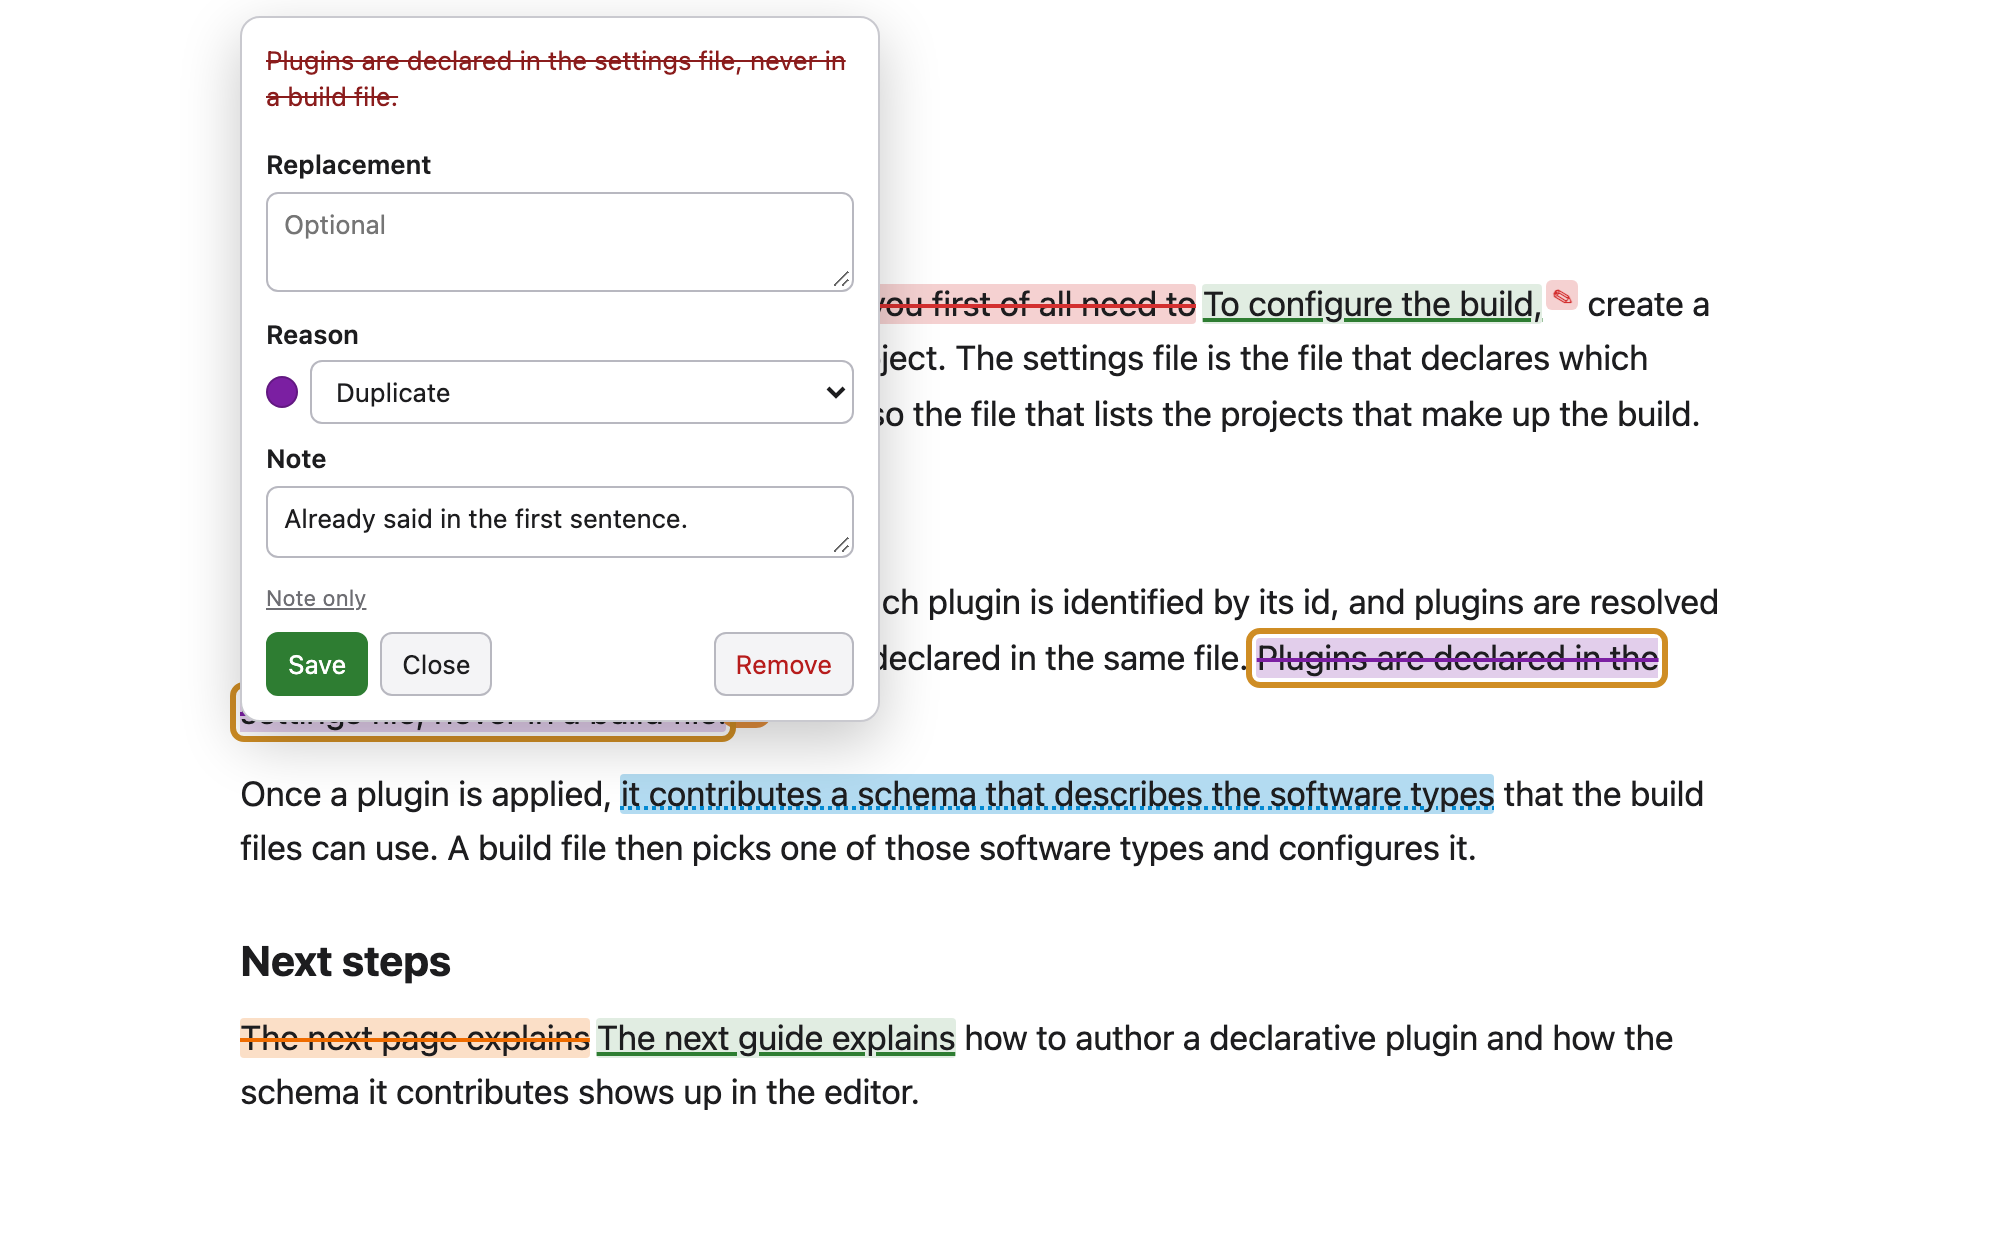
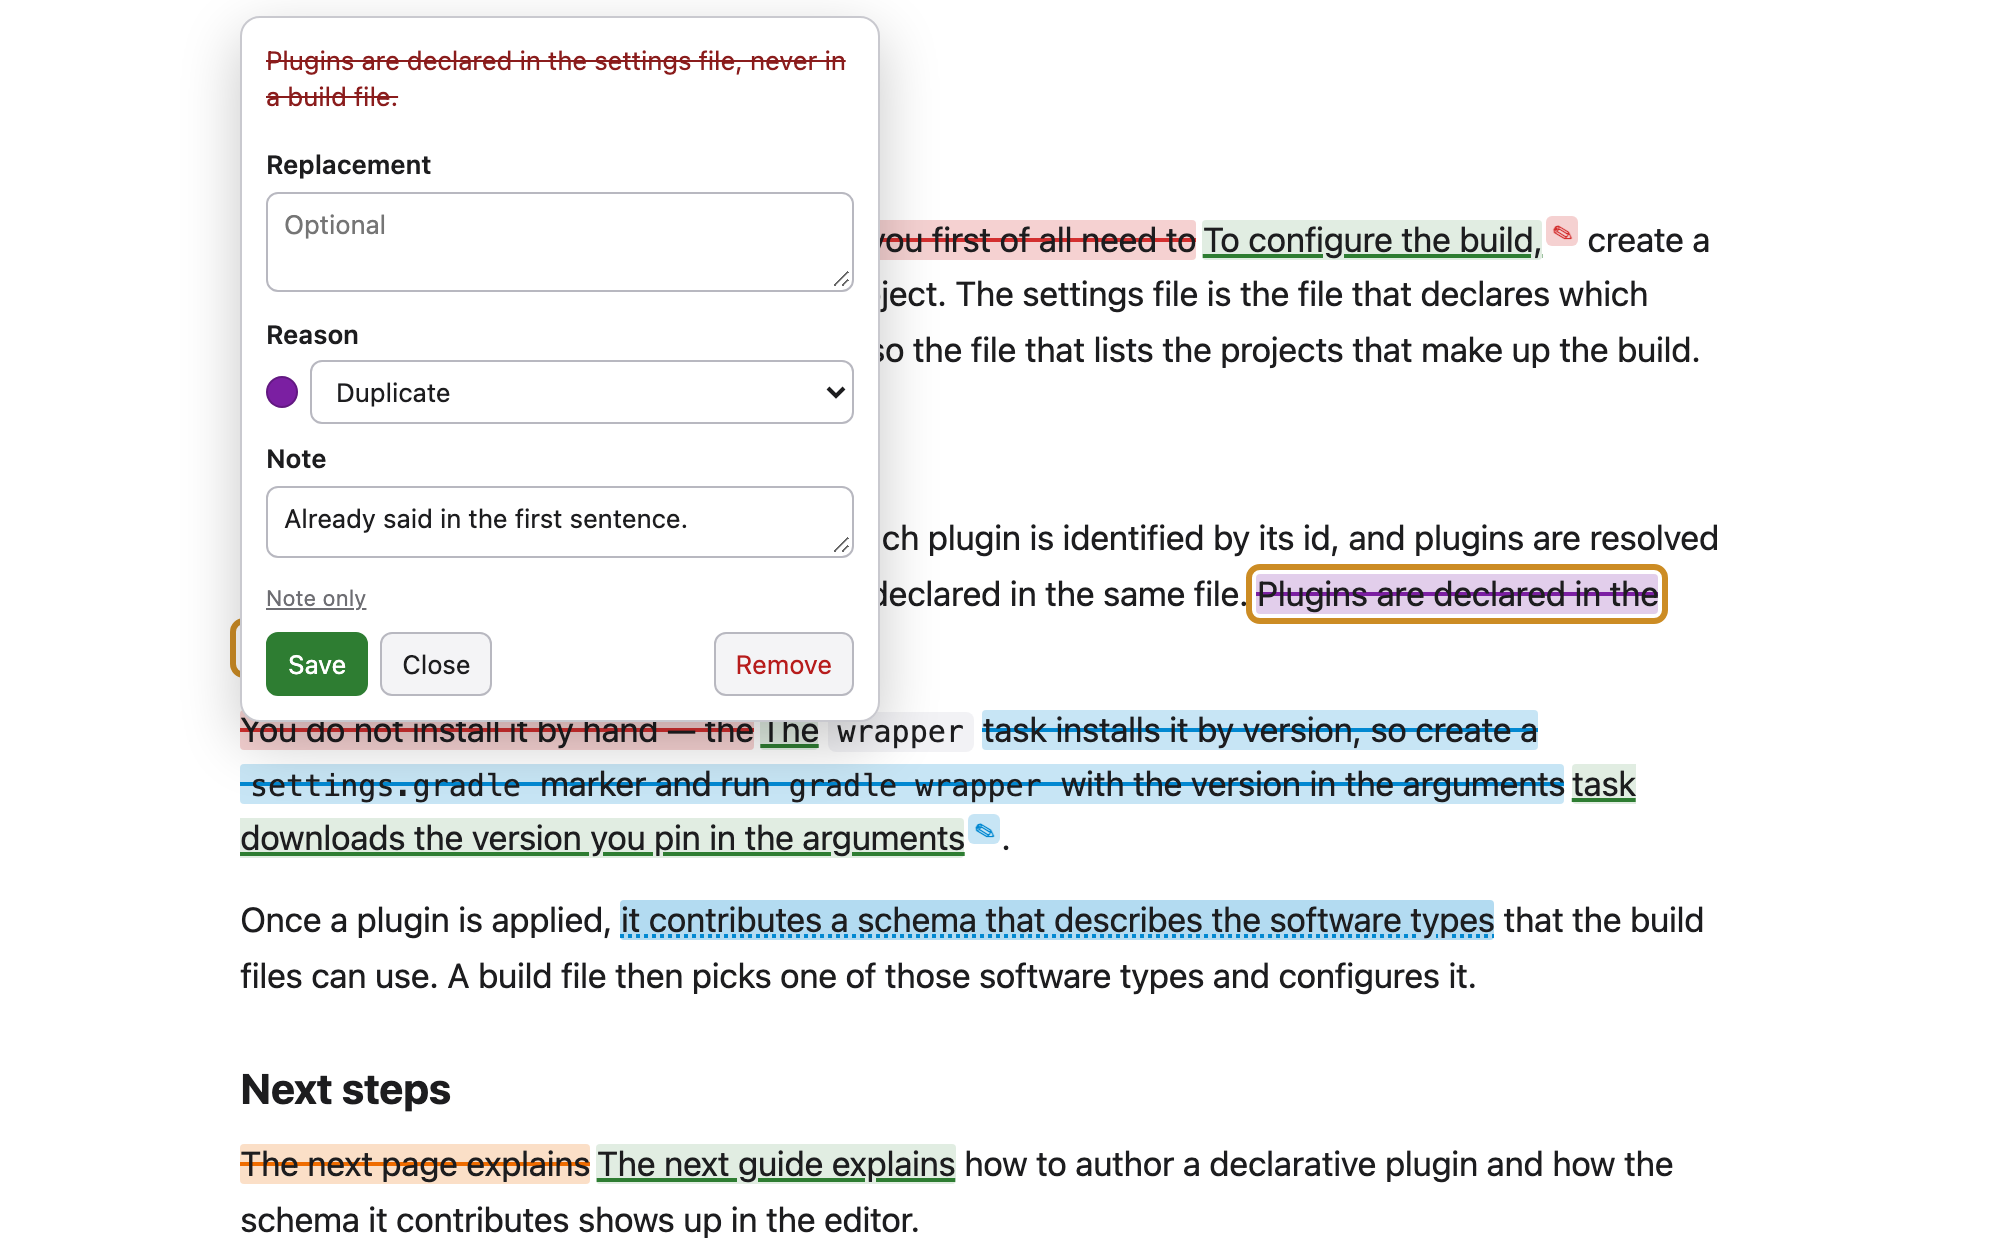
Wrap marks as whole runs; continuous strikethrough; tint-based hover
applyMark now wraps, per block, one span around each run of fully
covered sibling nodes (text and whole inline elements such as code or
emphasis), splitting only the partially covered text at the ends, so a
mark across inline markup is one box instead of one per text run; a
selection across paragraphs yields one span per paragraph. Nested
elements inside a mark paint no background of their own. The
strikethrough is a background layer rather than text-decoration, so it
stays continuous across nested padding and font-size changes. Hover
deepens the tint instead of drawing outlines, which doubled up where
pieces met.

Changed region(s): [[0.093, 0.429, 0.868, 0.8887], [0.434, 0.1532, 0.868, 0.3677], [0.093, 0.9194, 0.837, 1.0]]

diff --git a/test/smoke.html b/test/smoke.html
@@ -27,6 +27,8 @@
   <h2>Heading one</h2>
   <p id="p1">The quick <b>brown fox</b> jumps over the lazy dog. The quick brown fox again.</p>
   <p id="p2">Second paragraph with <a href="#x">a link inside</a> and more words after it.</p>
+  <p id="p3">Run the <code>wrapper</code> task, then edit <code>settings.gradle</code> and <em>commit</em> both files.</p>
+  <p id="p4">A fourth paragraph that a selection can reach into.</p>
   <section id="boiler">
     <p class="dup">This boilerplate paragraph is repeated verbatim further down the page so that the phrase marked here has identical surroundings for well over thirty-two characters on each side of the target phrase, which defeats a short context window.</p>
     <p>Something unique sits between the two copies.</p>
@@ -54,7 +56,7 @@
   sel(p1.firstChild, 4, p1.childNodes[2], 6); // "quick " + "brown fox" + " jumps"
   let r = await __send({ type: 'pr:mark-selection' });
   ok('mark spanning <b> ok', r.ok && r.edit.exact === 'quick brown fox jumps');
-  ok('three del spans', document.querySelectorAll('.page-redline-del').length === 3);
+  ok('one span wraps text + <b> + text', document.querySelectorAll('.page-redline-del').length === 1 && document.querySelector('.page-redline-del').querySelector('b'));
   ok('page text unchanged by marking', text() === before);
 
   const pageKey = location.origin + location.pathname + location.search;
@@ -237,11 +239,31 @@
   const pieces = [...document.querySelectorAll(`[data-pr-id="${hoverId}"]`)];
   const over = (el) => el.dispatchEvent(new MouseEvent('mouseover', { bubbles: true }));
   over(pieces[1]);
-  ok('hover on one span lights up all spans, replacement and badge', pieces.length === 5 && pieces.every(el => el.classList.contains('page-redline-hover')));
+  ok('hover on the span lights up span, replacement and badge', pieces.length === 3 && pieces.every(el => el.classList.contains('page-redline-hover')));
   over(document.getElementById('out'));
   ok('hover clears when leaving the mark', !document.querySelector('.page-redline-hover'));
 
-  // 16. clearing the page removes its storage keys entirely
+  // 16. merged wrapping: inline code/em inside the selection is wrapped whole, blocks split it
+  const p3 = document.getElementById('p3'), p4 = document.getElementById('p4');
+  sel(p3.firstChild, 4, p3.lastChild, 6); // "the <code>wrapper</code> task, then edit <code>settings.gradle</code> and <em>commit</em> both"
+  r = await __send({ type: 'pr:mark-selection' });
+  let spans = document.querySelectorAll(`.page-redline-del[data-pr-id="${r.edit.id}"]`);
+  ok('inline code and em wrapped whole in one span', spans.length === 1 && spans[0].querySelectorAll('code').length === 2 && spans[0].querySelector('em') && spans[0].textContent === 'the wrapper task, then edit settings.gradle and commit both');
+  ok('page text unchanged by merged wrapping', p3.textContent === 'Run the wrapper task, then edit settings.gradle and commit both files.');
+  await __send({ type: 'pr:remove', id: r.edit.id });
+  ok('merged span unwraps cleanly', p3.querySelectorAll('code').length === 2 && !document.querySelector(`[data-pr-id="${r.edit.id}"]`) && p3.textContent === 'Run the wrapper task, then edit settings.gradle and commit both files.');
+  // across two paragraphs: one span per block
+  sel(p3.lastChild, p3.lastChild.data.length - 6, p4.firstChild, 8); // "files." + "A fourth"
+  r = await __send({ type: 'pr:mark-selection' });
+  spans = document.querySelectorAll(`.page-redline-del[data-pr-id="${r.edit.id}"]`);
+  ok('selection across paragraphs gives one span per paragraph', spans.length === 2 && spans[0].closest('p') === p3 && spans[1].closest('p') === p4 && !spans[0].querySelector('p'));
+  ok('cross-paragraph mark re-anchors after reload', (await reloadScript(), document.querySelectorAll(`.page-redline-del[data-pr-id="${r.edit.id}"]`).length === 2));
+  // a new mark may not swallow an existing one
+  sel(p3.firstChild, 0, p4.lastChild, p4.lastChild.data.length); // whole p3 + p4, which contain a mark
+  r = await __send({ type: 'pr:mark-selection' });
+  ok('a selection containing an existing mark is refused', !!r.error);
+
+  // 17. clearing the page removes its storage keys entirely
   await __send({ type: 'pr:clear' });
   ok('clear removes page and meta keys', !('page:' + pageKey in __store) && !('meta:' + pageKey in __store));
 

diff --git a/content.js b/content.js
@@ -164,6 +164,20 @@
     return parts.join(' — ');
   }
 
+  // Inline elements may be wrapped whole; anything else is a block boundary we descend into.
+  function isInlineElement(el) {
+    if (SKIP_TAGS.has(el.nodeName.toUpperCase()) || isOwnUi(el)) return false;
+    const d = getComputedStyle(el).display;
+    return d.startsWith('inline') || d === 'contents';
+  }
+  function hasVisibleText(node) {
+    return node.nodeType === Node.TEXT_NODE ? node.data.trim().length > 0 : node.textContent.trim().length > 0;
+  }
+
+  // Wraps the range in as few spans as possible: within each block, one span per run of
+  // fully covered sibling nodes (text and whole inline elements such as <code> or <b>),
+  // splitting only the partially covered text nodes at the two ends. Returns false and
+  // changes nothing if the range is empty or touches an existing mark.
   function applyMark(range, edit) {
     let sc = range.startContainer, so = range.startOffset, ec = range.endContainer, eo = range.endOffset;
     if (ec.nodeType === Node.TEXT_NODE && eo < ec.data.length) ec.splitText(eo);
@@ -175,31 +189,46 @@
     const r = document.createRange();
     r.setStart(sc, so);
     r.setEnd(ec, eo);
-    const root = r.commonAncestorContainer.nodeType === Node.TEXT_NODE ? r.commonAncestorContainer.parentNode : r.commonAncestorContainer;
-    const nodes = [];
-    const walker = document.createTreeWalker(root, NodeFilter.SHOW_ELEMENT | NodeFilter.SHOW_TEXT, {
-      acceptNode(n) {
-        if (n.nodeType === Node.ELEMENT_NODE) {
-          if (SKIP_TAGS.has(n.nodeName.toUpperCase()) || isOwnUi(n)) return NodeFilter.FILTER_REJECT;
-          return NodeFilter.FILTER_SKIP;
+
+    // Collect the runs first, then check for overlap, then wrap: no half-applied marks.
+    const runs = [];
+    const markSelector = `.${DEL}, .${NOTE}, .${INS}, .${BADGE}`;
+    let touchesMark = false;
+    function collect(parent) {
+      let run = [];
+      const flush = () => { if (run.some(hasVisibleText)) runs.push(run); run = []; };
+      for (const child of [...parent.childNodes]) {
+        if (!r.intersectsNode(child)) { flush(); continue; }
+        if (child.nodeType === Node.ELEMENT_NODE && child.matches(markSelector)) { touchesMark = true; return; }
+        const fullyCovered = r.comparePoint(child, 0) >= 0 && (child.nodeType === Node.TEXT_NODE
+          ? r.comparePoint(child, child.data.length) <= 0
+          : r.comparePoint(child.parentNode, [...child.parentNode.childNodes].indexOf(child) + 1) <= 0);
+        if (child.nodeType === Node.TEXT_NODE) {
+          if (fullyCovered && !SKIP_TAGS.has(parent.nodeName.toUpperCase())) run.push(child); else flush();
+        } else if (fullyCovered && isInlineElement(child)) {
+          if (child.querySelector(markSelector)) { touchesMark = true; return; }
+          run.push(child);
+        } else {
+          flush();
+          if (!SKIP_TAGS.has(child.nodeName.toUpperCase()) && !isOwnUi(child)) collect(child);
+          if (touchesMark) return;
         }
-        return r.intersectsNode(n) && n.data.trim().length ? NodeFilter.FILTER_ACCEPT : NodeFilter.FILTER_SKIP;
-      },
-    });
-    let n;
-    while ((n = walker.nextNode())) nodes.push(n);
-    if (!nodes.length) return false;
-    if (nodes.some((t) => t.parentElement && t.parentElement.closest(`.${DEL}`))) return false; // overlap
-    let last = null;
-    for (const t of nodes) {
+      }
+      flush();
+    }
+    const root = r.commonAncestorContainer.nodeType === Node.TEXT_NODE ? r.commonAncestorContainer.parentNode : r.commonAncestorContainer;
+    if (root.closest && root.closest(markSelector)) return false;
+    collect(root);
+    if (touchesMark || !runs.length) return false;
+
+    for (const run of runs) {
       const span = document.createElement('span');
       span.className = isNote(edit) ? NOTE : DEL;
       span.dataset.prId = edit.id;
       span.title = tooltip(edit);
       applyColor(span, edit);
-      t.parentNode.insertBefore(span, t);
-      span.appendChild(t);
-      last = span;
+      run[0].parentNode.insertBefore(span, run[0]);
+      for (const node of run) span.appendChild(node);
     }
     renderTrailing(edit);
     return true;

diff --git a/content.css b/content.css
@@ -1,9 +1,16 @@
+/* The strikethrough is painted as a background layer rather than text-decoration: browsers
+   draw decorations only under text runs, so a line-through would break at the padding of
+   nested inline elements (code, links) and jump where their font size differs. A background
+   line is continuous across the whole span. */
 .page-redline-del {
   --pr-color: #d32f2f;
-  text-decoration: line-through !important;
-  text-decoration-color: var(--pr-color) !important;
-  text-decoration-thickness: 2px !important;
-  background: color-mix(in srgb, var(--pr-color) 22%, transparent) !important;
+  --pr-tint: 22%;
+  text-decoration: none !important;
+  background:
+    linear-gradient(to bottom, transparent calc(50% - 1px), var(--pr-color) calc(50% - 1px), var(--pr-color) calc(50% + 1px), transparent calc(50% + 1px)),
+    color-mix(in srgb, var(--pr-color) var(--pr-tint), transparent) !important;
+  -webkit-box-decoration-break: clone;
+  box-decoration-break: clone;
   cursor: pointer !important;
   border-radius: 2px;
 }
@@ -19,12 +26,20 @@
   font: inherit;
   color: inherit;
 }
-/* Hover is applied by the content script to every piece of a mark at once (text spans,
-   replacement, badge), so a mark that spans inline markup lights up as a whole. */
-.page-redline-hover {
-  outline: 1px solid var(--pr-color) !important;
-  outline-offset: 1px;
+/* Inline elements inside a mark (code, links, emphasis) take the mark's tint instead of
+   their own background, so the highlight reads as one piece. */
+.page-redline-del *,
+.page-redline-note *,
+.page-redline-ins * {
+  background: transparent !important;
 }
+/* Hover is applied by the content script to every piece of a mark at once (text spans,
+   replacement, badge). A deeper tint rather than an outline: nothing to double up where
+   pieces meet. */
+.page-redline-del.page-redline-hover { --pr-tint: 42%; }
+.page-redline-note.page-redline-hover { background: color-mix(in srgb, var(--pr-color) 50%, transparent) !important; }
+.page-redline-ins.page-redline-hover { background: color-mix(in srgb, var(--pr-color) 30%, transparent) !important; }
+.page-redline-badge.page-redline-hover { background: color-mix(in srgb, var(--pr-color) 42%, transparent) !important; }
 .page-redline-flash {
   outline: 3px solid #f9a825 !important;
   outline-offset: 2px;

diff --git a/test/demo.html b/test/demo.html
@@ -13,6 +13,7 @@
 <p>In order to be able to configure the build, you first of all need to create a settings file in the root directory of the project. The settings file is the file that declares which plugins are applied to the build and it is also the file that lists the projects that make up the build.</p>
 <h2>Declaring plugins</h2>
 <p>Plugins are declared in the settings file. Each plugin is identified by its id, and plugins are resolved from the repositorys that are declared in the same file. Plugins are declared in the settings file, never in a build file.</p>
+<p>You do not install it by hand — the <code>wrapper</code> task installs it by version, so create a <code>settings.gradle</code> marker and run <code>gradle wrapper</code> with the version in the arguments.</p>
 <p>Once a plugin is applied, it contributes a schema that describes the software types that the build files can use. A build file then picks one of those software types and configures it.</p>
 <h2>Next steps</h2>
 <p>The next page explains how to author a declarative plugin and how the schema it contributes shows up in the editor.</p>
